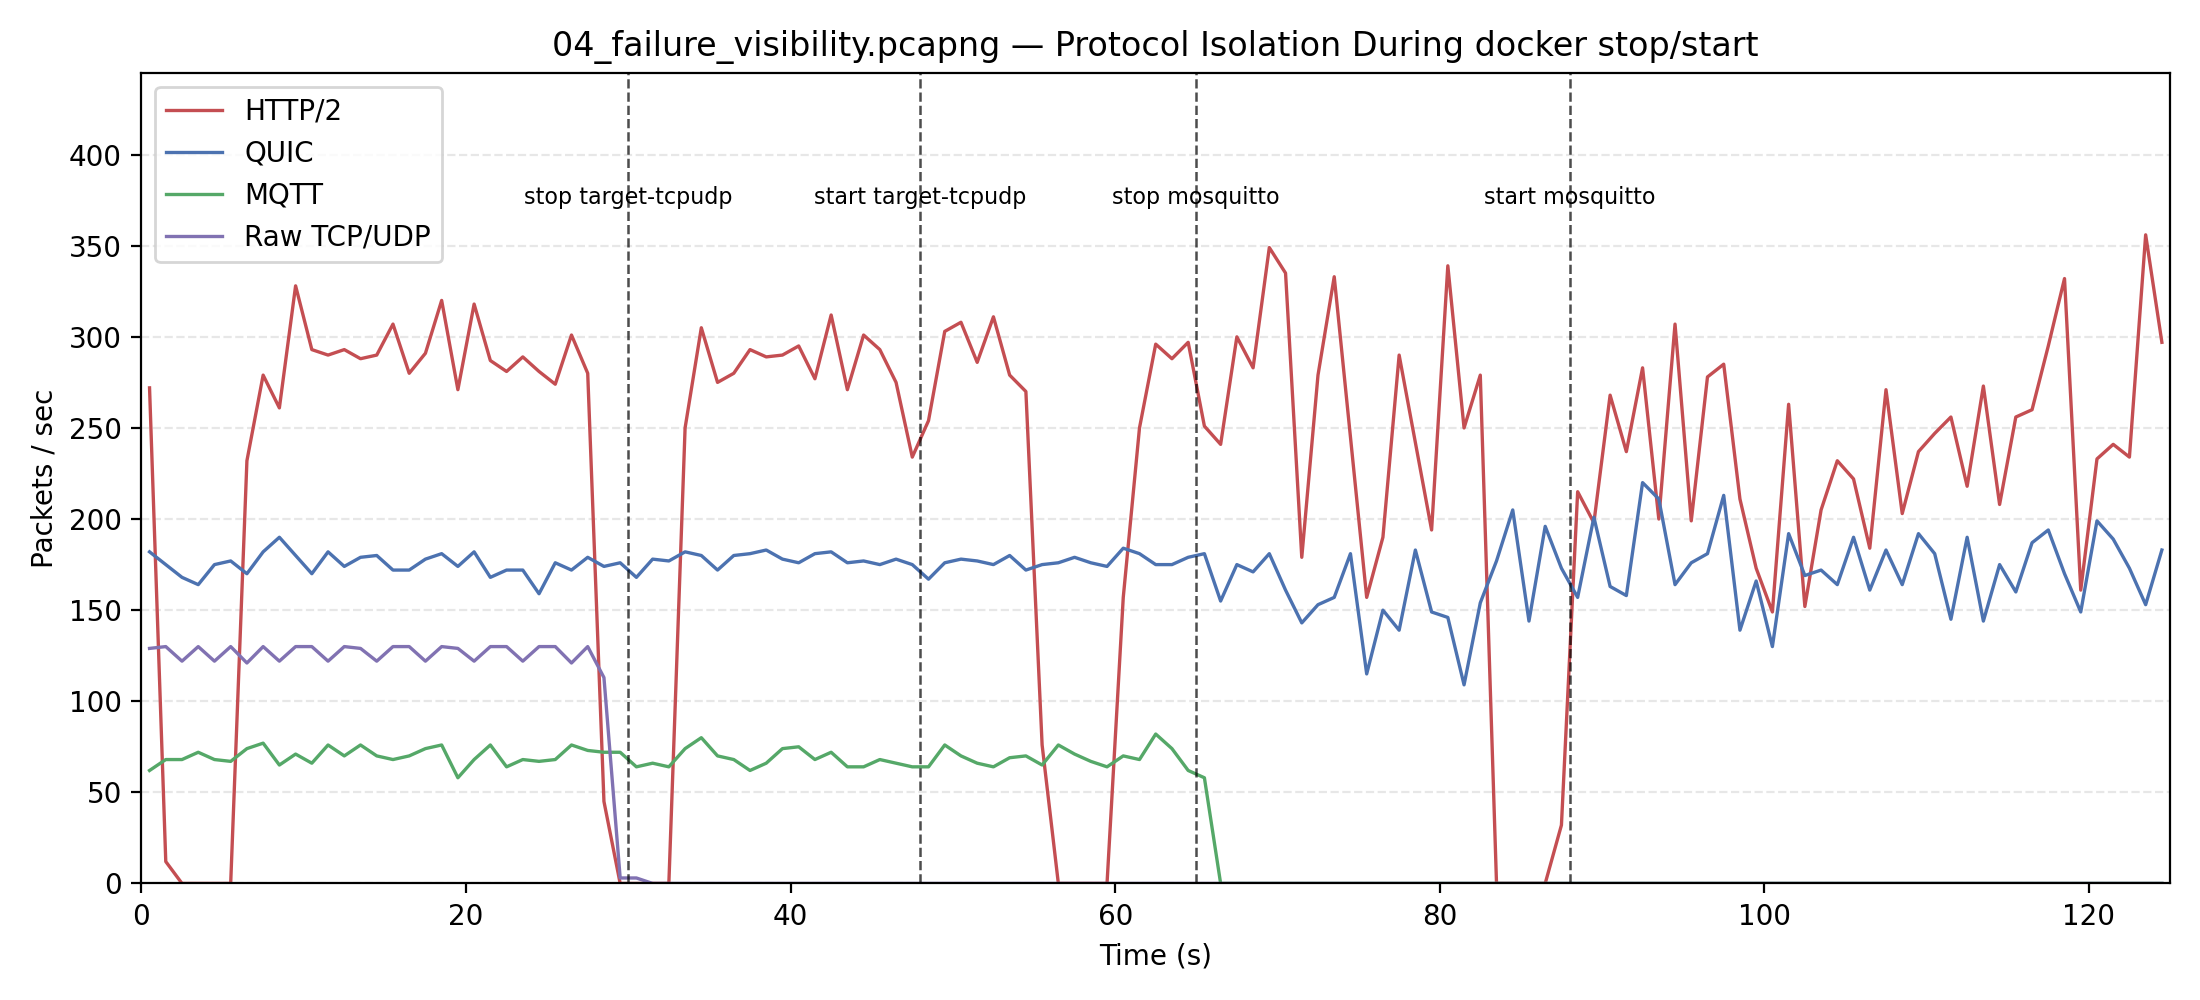
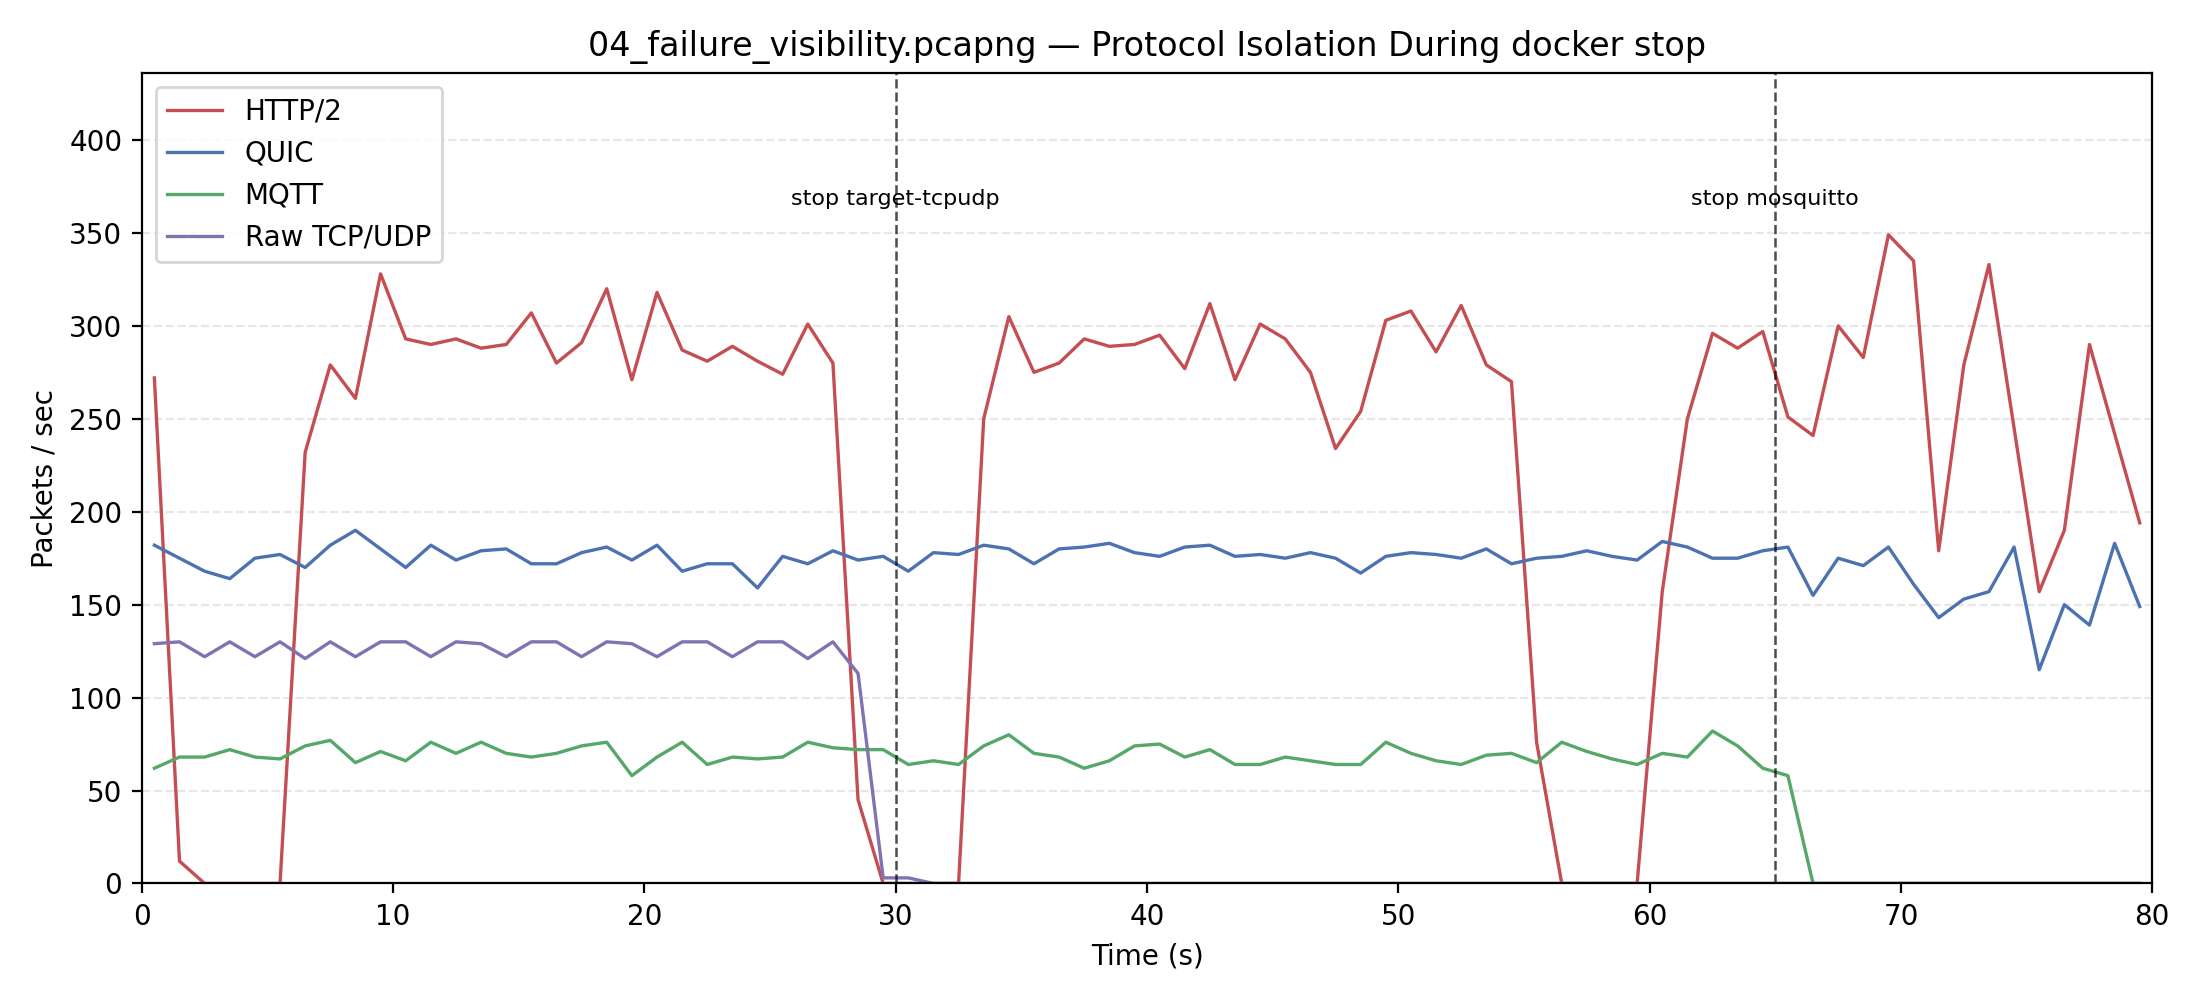
redesign figures

diff --git a/captures/analysis/04_failure/failure_timeline.py b/captures/analysis/04_failure/failure_timeline.py
@@ -1,13 +1,20 @@
 #!/usr/bin/env python3
 """
-Failure Timeline: Protocol Isolation During docker stop/start (Capture 04)
+Failure Timeline: Protocol Isolation During docker stop (Capture 04)
 ----------------------------------------------------------------------------
 Recreates Wireshark's "Statistics -> I/O Graph" for 04_failure_visibility.pcapng
 as an annotated matplotlib figure: one packets/sec line per protocol (HTTP/2,
-QUIC, MQTT, Raw TCP/UDP combined), with vertical markers at the four scripted
+QUIC, MQTT, Raw TCP/UDP combined), with vertical markers at the two stop
 events. The story: three lines keep flowing undisturbed, exactly one line
-drops to zero at each stop and recovers at each restart - direct visual
-evidence of protocol isolation.
+drops to zero at each stop - direct visual evidence of protocol isolation.
+
+Deliberately cropped to end shortly after the second stop, at t=80s, and the
+two restart events (t=48s, t=88s) are left out entirely. Both stopped
+services also get restarted later in the raw capture, but recovery in this
+data takes longer than we can currently explain with confidence - rather
+than assert a specific root cause we can't back up on stage, this figure
+only shows and claims what's fully evidenced: the failure and isolation
+side. Recovery is simply not this figure's story.
 
 Also computes "time to silence" per stopped service: the gap between the
 docker stop command and the last packet observed on that service's port,
@@ -15,11 +22,9 @@ plus a sanity check that no tcp.flags.reset==1 / mqtt.msgtype==14 (DISCONNECT)
 packets appear anywhere in the capture - confirming the report's "silence,
 not RST" finding numerically, not just by inspection.
 
-Event timeline (from capture_04_failure_visibility.sh):
+Event timeline shown (from capture_04_failure_visibility.sh):
     t=30s  docker stop  target-tcpudp   (expect: raw TCP/UDP line -> 0)
-    t=48s  docker start target-tcpudp   (expect: raw TCP/UDP line recovers)
     t=65s  docker stop  mosquitto       (expect: MQTT line -> 0)
-    t=88s  docker start mosquitto       (expect: MQTT line recovers)
 
 Usage:
     python3 captures/analysis/04_failure/failure_timeline.py
@@ -34,6 +39,7 @@ import shutil
 import subprocess
 import sys
 from pathlib import Path
+from typing import Optional
 
 import matplotlib.pyplot as plt
 import numpy as np
@@ -43,6 +49,7 @@ REPO_ROOT = SCRIPT_DIR.parent.parent.parent
 PCAP = REPO_ROOT / "captures" / "04_failure_visibility.pcapng"
 
 BIN_SECONDS = 1.0
+DISPLAY_DURATION = 80.0  # crop well before the t=88s mosquitto restart
 
 SERIES = [
     ("HTTP/2", "tcp.port==8080", "#C44E52"),
@@ -53,9 +60,7 @@ SERIES = [
 
 EVENTS = [
     (30, "stop target-tcpudp", "Raw TCP/UDP"),
-    (48, "start target-tcpudp", "Raw TCP/UDP"),
     (65, "stop mosquitto", "MQTT"),
-    (88, "start mosquitto", "MQTT"),
 ]
 
 
@@ -97,7 +102,7 @@ def bin_per_second(timestamps: np.ndarray, duration: float) -> tuple[np.ndarray,
     return centers, counts
 
 
-def last_packet_before_gap(timestamps: np.ndarray, stop_t: float, search_window: float = 10.0) -> float | None:
+def last_packet_before_gap(timestamps: np.ndarray, stop_t: float, search_window: float = 10.0) -> Optional[float]:
     """Last packet timestamp in (stop_t, stop_t+search_window] - i.e. how long
     traffic straggled on after the stop command before going fully silent."""
     window = timestamps[(timestamps > stop_t) & (timestamps <= stop_t + search_window)]
@@ -109,14 +114,11 @@ def main() -> None:
     print(f"Using tshark: {tshark}")
 
     all_ts = {}
-    max_time = 0.0
     for label, display_filter, _ in SERIES:
         print(f"Extracting {label} ({display_filter}) ...")
         ts = extract_timestamps(tshark, PCAP, display_filter)
-        all_ts[label] = ts
-        if ts.size:
-            max_time = max(max_time, ts.max())
-    duration = float(np.ceil(max_time))
+        all_ts[label] = ts[ts <= DISPLAY_DURATION]  # crop before any restart event
+    duration = DISPLAY_DURATION
 
     binned = {label: bin_per_second(all_ts[label], duration) for label, _, _ in SERIES}
 
@@ -163,7 +165,7 @@ def main() -> None:
 
     ax.set_xlabel("Time (s)")
     ax.set_ylabel("Packets / sec")
-    ax.set_title("04_failure_visibility.pcapng — Protocol Isolation During docker stop/start")
+    ax.set_title("04_failure_visibility.pcapng — Protocol Isolation During docker stop")
     ax.set_xlim(0, duration)
     ax.set_ylim(0, ymax * 1.25)
     ax.legend(loc="upper left")

diff --git a/captures/analysis/04_failure/rst_signatures_comparison.py b/captures/analysis/04_failure/rst_signatures_comparison.py
@@ -6,12 +6,14 @@ Three RST Signatures: docker stop vs. iptables REJECT vs. real-network jitter
 each with its own signature. This figure puts all three side by side, each
 backed by a real capture:
 
-  1. docker stop target-http2 (04b_failure_visibility_http2.pcapng)
-     -> 0 RST caused by the stop. The container's entire network namespace
-        is torn down, so there's no kernel left to answer with anything.
-        (A 7-packet RST cluster does appear at t~26s, but ~4s BEFORE the
-        stop at t=30s - it's the unrelated Hypercorn keep_alive_max_requests
-        =1000 connection-cycling artifact, not a failure signal.)
+  1. docker stop target-tcpudp (04_failure_visibility.pcapng)
+     -> 0 RST in the entire capture. The container's entire network
+        namespace is torn down, so there's no kernel left to answer with
+        anything. Chosen over the target-http2 variant (04b) deliberately:
+        04b has an unrelated 7-packet RST cluster ~4s before its own stop
+        command (Hypercorn's own keep_alive_max_requests=1000 connection
+        cycling, see capture 02), which muddies the "clean before/after"
+        story. target-tcpudp has no such confound anywhere in the file.
 
   2. iptables REJECT --reject-with tcp-reset (04c_failure_visibility_reject.pcapng)
      -> RST immediately, every time, for as long as the rule is active.
@@ -30,7 +32,7 @@ Usage:
     python3 captures/analysis/04_failure/rst_signatures_comparison.py
 
 Requires: tshark (Wireshark), matplotlib, numpy.
-Reads:    captures/04b_failure_visibility_http2.pcapng
+Reads:    captures/04_failure_visibility.pcapng
           captures/04c_failure_visibility_reject.pcapng
           captures/05_multisystem_Mac.fritz.box.pcapng
 Writes:   captures/analysis/04_failure/rst_signatures_comparison.png
@@ -93,13 +95,14 @@ def get_capture_duration(tshark: str, pcap: Path) -> float:
 
 PANELS = [
     {
-        "title": "1. docker stop target-http2",
-        "pcap": CAPTURES_DIR / "04b_failure_visibility_http2.pcapng",
-        "traffic_filter": "tcp.port==8080",
-        "traffic_label": "HTTP/2 pkt/s",
-        "traffic_color": "#C44E52",
+        "title": "1. docker stop target-tcpudp",
+        "pcap": CAPTURES_DIR / "04_failure_visibility.pcapng",
+        "traffic_filter": "tcp.port==9999 or udp.port==9999",
+        "traffic_label": "Raw TCP/UDP pkt/s",
+        "traffic_color": "#8172B2",
         "events": [(30, "docker stop")],
-        "note": "0 RST caused by the stop\n(7-pkt cluster at t~26s is an\nunrelated pre-existing artifact)",
+        "note": "0 RST in the entire capture\n(clean cliff at the stop,\nno pre-existing artifact)",
+        "duration_override": 50,
     },
     {
         "title": "2. iptables REJECT --reject-with tcp-reset",
@@ -135,15 +138,23 @@ def main() -> None:
 
         traffic_ts = extract_timestamps(tshark, pcap, panel["traffic_filter"])
         rst_ts = extract_timestamps(tshark, pcap, "tcp.flags.reset==1")
-        duration = float(np.ceil(get_capture_duration(tshark, pcap)))
+        full_duration = float(np.ceil(get_capture_duration(tshark, pcap)))
+        duration = min(full_duration, panel.get("duration_override", full_duration))
+
+        # Crop to the displayed window - RST markers outside it would be
+        # misleading (implies relevance to what's shown) and the extra
+        # flat/empty tail past the interesting part adds nothing.
+        traffic_ts = traffic_ts[traffic_ts <= duration]
+        rst_ts = rst_ts[rst_ts <= duration]
 
         centers, counts = bin_per_second(traffic_ts, duration)
         ax.plot(centers, counts, color=panel["traffic_color"], linewidth=1.1, label=panel["traffic_label"])
 
         ymax = max(counts.max(), 1)
         if rst_ts.size:
+            legend_suffix = panel.get("rst_legend_suffix", "")
             ax.scatter(rst_ts, np.full_like(rst_ts, ymax * 0.06), color="black", marker="|",
-                       s=200, linewidths=1.2, label=f"RST (n={rst_ts.size})", zorder=5)
+                       s=200, linewidths=1.2, label=f"RST (n={rst_ts.size}{legend_suffix})", zorder=5)
 
         for t, label in panel["events"]:
             ax.axvline(t, color="gray", linestyle="--", linewidth=0.9)
